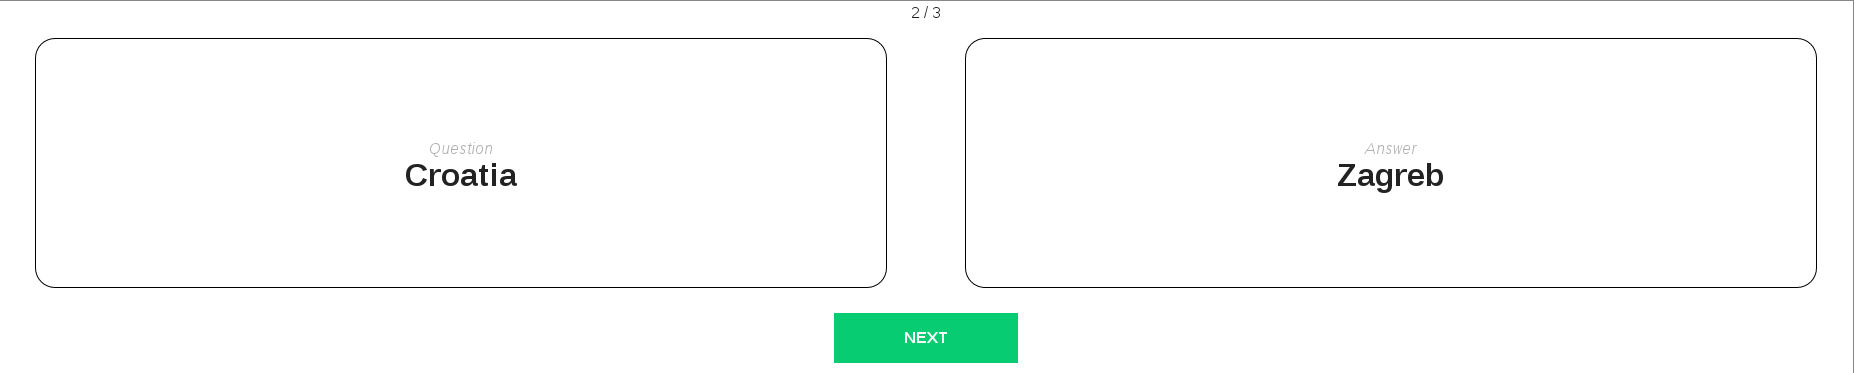
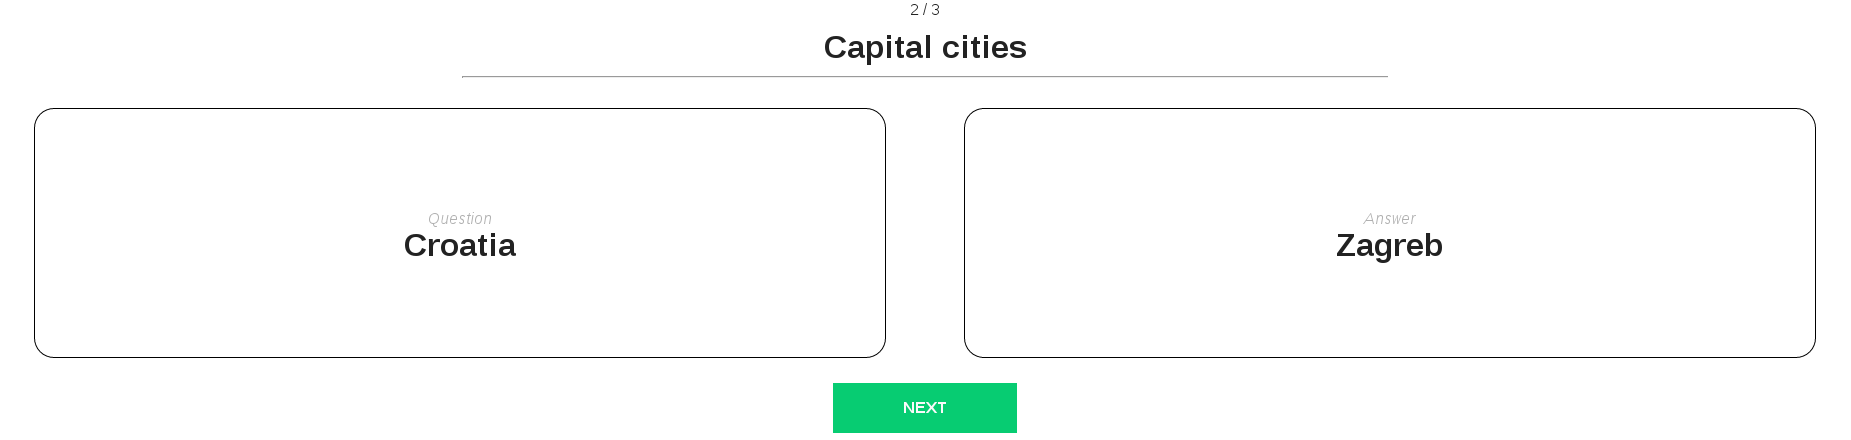
Added title

diff --git a/flashcards/static/css/flashcards.css b/flashcards/static/css/flashcards.css
@@ -5,6 +5,19 @@
     text-align:center;
 }
 
+.fc-title {
+    display:block;
+    width:100%;
+    text-align:center;
+    margin:10px 0;
+    font-weight:600;
+    font-size:2em;
+}
+.flashcards_block hr {
+    width:50%;
+    margin-bottom:30px;
+}
+
 .flashcards_block p {
     line-height:1;
     margin-top:10px;

diff --git a/flashcards/static/html/flashcards.html b/flashcards/static/html/flashcards.html
@@ -1,5 +1,7 @@
 <div class="flashcards_block">
 <div class="fc-number"><span class="current-fc">0</span> / <span class="fc-total">{{ flashcards|length }}</span></div>
+<div class="fc-title">{{ title }}</div>
+<hr>
 <ul>
     {% for question, answer in flashcards.items %}
     <li>

diff --git a/flashcards/flashcards.py b/flashcards/flashcards.py
@@ -21,6 +21,12 @@ class FlashcardsXBlock(XBlock):
     The content (the values between the <flashcards> tags) is saved as a 
     dictionary and passed as a dictionary to the HTML template
     """
+    title = String(
+            default=u"Flashcards title",
+            scope=Scope.settings,
+            help=u"Title of the flashcards block"
+        )
+
     content = Dict(
             default={},
             scope=Scope.settings,
@@ -37,7 +43,9 @@ class FlashcardsXBlock(XBlock):
     def student_view(self, context=None):
         context = {
             'flashcards': self.content,
+            'title': self.title,
         }
+        print(self.title)
 
         frag = Fragment()
         frag.add_content(render_template('static/html/flashcards.html', context))
@@ -60,7 +68,7 @@ class FlashcardsXBlock(XBlock):
         """
         block = runtime.construct_xblock_from_class(cls, keys)
         flashcards = {}
-
+        
         for line in node.text.split('\n'):
             line = line.strip()
             line = line.split(',')
@@ -68,6 +76,7 @@ class FlashcardsXBlock(XBlock):
                 flashcards[line[0]] = line[1]
 
         block.content = flashcards
+        block.title = node.attrib['title']
         return block
 
 
@@ -77,7 +86,7 @@ class FlashcardsXBlock(XBlock):
         return [
             ("FlashcardsXBlock",
              """<vertical_demo>
-                <flashcards>
+                <flashcards title="Capital cities">
 Croatia,Zagreb
 France,Paris
 Lorem ipsum dolor sit amet vim ex simul soluta ponderum duo enim ornatus reprehendunt in ut nam dignissim theophrastus. Tacimates explicari ne sit dicit pertinax in est vel eu posse epicuri. Regione signiferumque mei in at sea rebum decore placerat. Eruditi voluptua in eum mei ex eleifend tractatos. Sed id summo consetetur reprehendunt ut nemore expetendis quo. Ex qui iisque nonumes fuisset., Lorem ipsum dolor sit amet vim ex simul soluta ponderum duo enim ornatus reprehendunt in ut nam dignissim theophrastus. Tacimates explicari ne sit dicit pertinax in est vel eu posse epicuri. Regione signiferumque mei in at sea rebum decore placerat. Eruditi voluptua in eum mei ex eleifend tractatos. Sed id summo consetetur reprehendunt ut nemore expetendis quo. Ex qui iisque nonumes fuisset.

diff --git a/README.md b/README.md
@@ -1,12 +1,14 @@
 # FlashcardsXBlock
 An Open edX platform XBlock to create and display flashcards.
 
-The flashcards are added as comma-separated values between the <flashcards> tags in the form:
+The flashcards are added as comma-separated values between the &lt;flashcards&gt; tags in the form:
 
 question1,answer1
+
 question2,answer2
 
 Output looks like this:
+
 ![Flashcard](flashcardsxblock.png)
 
 # TODO
